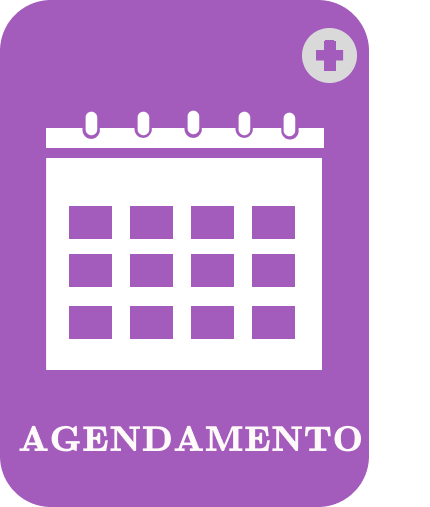
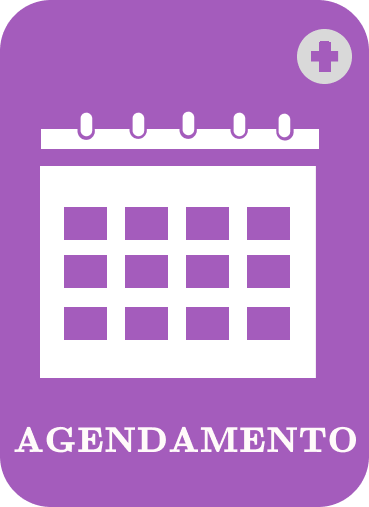
acsscsa

diff --git a/frontend/src/pages/Dashboard/Dashboard.css b/frontend/src/pages/Dashboard/Dashboard.css
@@ -41,23 +41,25 @@
   gap: 10px;
 }
 
-/* LAYOUT PRINCIPAL - DINÂMICO */
+/* LAYOUT PRINCIPAL */
 .layout-grid {
   display: grid;
-  grid-template-columns: 1fr 2fr;
-  gap: 35px;
+  grid-template-columns: 1fr 3fr;
+  gap: 25px;
   max-width: 1600px;
   margin: 0 auto;
+  align-items: start; /* ALINHA PELO TOPO */
+  max-height: 1000px;
 }
 
-/* COLUNA ESQUERDA - DINÂMICA */
+/* COLUNA ESQUERDA */
 .coluna-esquerda {
   display: flex;
   flex-direction: column;
-  gap: 35px;
+  gap: 10px;
 }
 
-/* LOGO - RESPONSIVA */
+/* LOGO */
 .logo-area {
   display: flex;
   flex-direction: column;
@@ -67,100 +69,35 @@
 
 .logo-imagem {
   width: 100%;
-  max-width: 220px;
+  max-width: 400px;
   height: auto;
   border-radius: 50%;
-  object-fit: contain;
+  object-fit: cover;
   background: white;
-  padding: 20px;
-  margin-bottom: 20px;
 }
 
-.logo-texto {
-  font-size: clamp(24px, 5vw, 32px);
-  font-weight: bold;
-  color: #9356B7;
-  line-height: 1.2;
-}
+/* ========================================== */
+/* GRADE DA DIREITA – 3 COLUNAS ALINHADAS */
+/* ========================================== */
 
-.logo-texto span {
-  color: #00FFFF;
-}
-
-.logo-subtitulo {
-  color: #7129A3;
-  font-size: clamp(12px, 3vw, 14px);
-  font-weight: 600;
-  margin-top: 5px;
-}
-
-/* CARD NOVIDADES - DINÂMICO */
-.card-novidades {
-  background: linear-gradient(to bottom, #8CE1C3 50%, #B686D7 50%);
-  border-radius: 50px;
-  min-height: 300px;
-  height: auto;
-  display: flex;
-  flex-direction: column;
-  align-items: center;
-  justify-content: center;
-  gap: 25px;
-  color: white;
-  position: relative;
-  cursor: pointer;
-  padding: 40px 20px;
-}
-
-.card-novidades:hover {
-  transform: translateY(-5px);
-}
-
-/* GRADE DA DIREITA - DINÂMICA E ALINHADA */
-.grade-botoes {
-  display: grid;
-  grid-template-columns: repeat(auto-fit, minmax(250px, 1fr));
-  grid-auto-rows: minmax(280px, auto);
-  gap: 25px;
-  align-items: stretch;
-}
-
-.menu-card {
-  border-radius: 50px;
-  display: flex;
-  flex-direction: column;
-  align-items: center;
-  justify-content: center;
-  gap: 15px;
-  color: white;
-  text-align: center;
-  padding: 20px;
-  cursor: pointer;
-  position: relative;
-  transition: transform 0.2s ease;
-  height: 100%;
-}
-
-.menu-card:hover {
-  transform: translateY(-5px);
-}
-
-/* GRADE PARA BOTÕES COM IMAGENS - DINÂMICA */
 .grade-figma {
   display: grid;
-  grid-template-columns: repeat(auto-fit, minmax(280px, 1fr));
+  grid-template-columns: repeat(3, 1fr);
   gap: 25px;
-  align-items: stretch;
+  align-items: start; /* ALINHA OS CARDS PELO TOPO */
 }
 
+/* BOTÕES */
 .btn-figma {
   background: none;
   border: none;
   cursor: pointer;
   padding: 0;
-  transition: transform 0.2s ease, box-shadow 0.2s ease;
   width: 100%;
+  transition: transform 0.2s ease, box-shadow 0.2s ease;
   border-radius: 30px;
   overflow: hidden;
+  min-width: min;
 }
 
 .btn-figma:hover {
@@ -171,68 +108,32 @@
   width: 100%;
   height: auto;
   display: block;
-  object-fit: cover;
+  border-radius: 30px;
 }
 
-/* ÍCONES - DINÂMICOS (caso use ícones) */
-.icone-card {
-  font-size: clamp(40px, 8vw, 60px);
-  color: white;
-}
-
-.nome-card {
-  font-size: clamp(12px, 4vw, 16px);
-  font-weight: bold;
-  text-transform: uppercase;
-  line-height: 1.3;
-}
-
-.icone-plus-circle {
-  position: absolute;
-  top: 20px;
-  right: 20px;
-  background: rgba(255, 255, 255, 0.4);
-  border-radius: 50%;
-  width: 32px;
-  height: 32px;
-  display: flex;
-  align-items: center;
-  justify-content: center;
-  font-size: 18px;
-  font-weight: bold;
-}
-
-/* CORES DOS CARDS */
-.card-agendamento { background-color: #B686D7; }
-.card-hist-agendamento { background-color: #8CE1C3; }
-.card-hist-pagamento { background-color: #9356B7; }
-.card-pagamento { background-color: #4AD9E8; }
-.card-suporte { background-color: #7129A3; }
-.card-funcionamento { background-color: #2AB38A; }
-
+/* ========================================== */
 /* RESPONSIVO */
+/* ========================================== */
+
 @media (max-width: 1200px) {
   .layout-grid { 
     grid-template-columns: 1fr; 
   }
-  .grade-botoes { 
-    grid-template-columns: repeat(2, 1fr);
-  }
+
   .grade-figma { 
     grid-template-columns: repeat(2, 1fr);
   }
+
   .card-novidades { 
     min-height: 250px; 
   }
 }
 
 @media (max-width: 768px) {
-  .grade-botoes { 
-    grid-template-columns: 1fr;
-  }
   .grade-figma { 
     grid-template-columns: 1fr;
   }
+
   .logo-imagem {
     max-width: 160px;
   }

diff --git a/frontend/src/pages/Dashboard/Dashboard.jsx b/frontend/src/pages/Dashboard/Dashboard.jsx
@@ -6,7 +6,7 @@ import "./Dashboard.css";
 
 // IMPORTANDO AS IMAGENS
 import NOVIDADES from "./../../assets/images/NOVIDADES.png";
-import FUNCIONAMENTO from "./../../assets/images/FUNCIONAMENTO.png";
+import STATUS from "./../../assets/images/STATUS.png";
 import AGENDAMENTO from "./../../assets/images/AGENDAMENTO.png";
 import PAGAMENTO from "./../../assets/images/PAGAMENTO.png";
 import HISTORICO_DE_AGENDAMENTO from "./../../assets/images/HISTORICO DE AGENDAMENTO.png";
@@ -85,7 +85,7 @@ function Dashboard() {
 
           {/* FUNCIONAMENTO */}
           <button className="btn-figma" onClick={irParaFuncionamento}>
-            <img src={FUNCIONAMENTO} alt="FUNCIONAMENTO" />
+            <img src={STATUS} alt="STATUS" />
           </button>
         </div>
       </div>